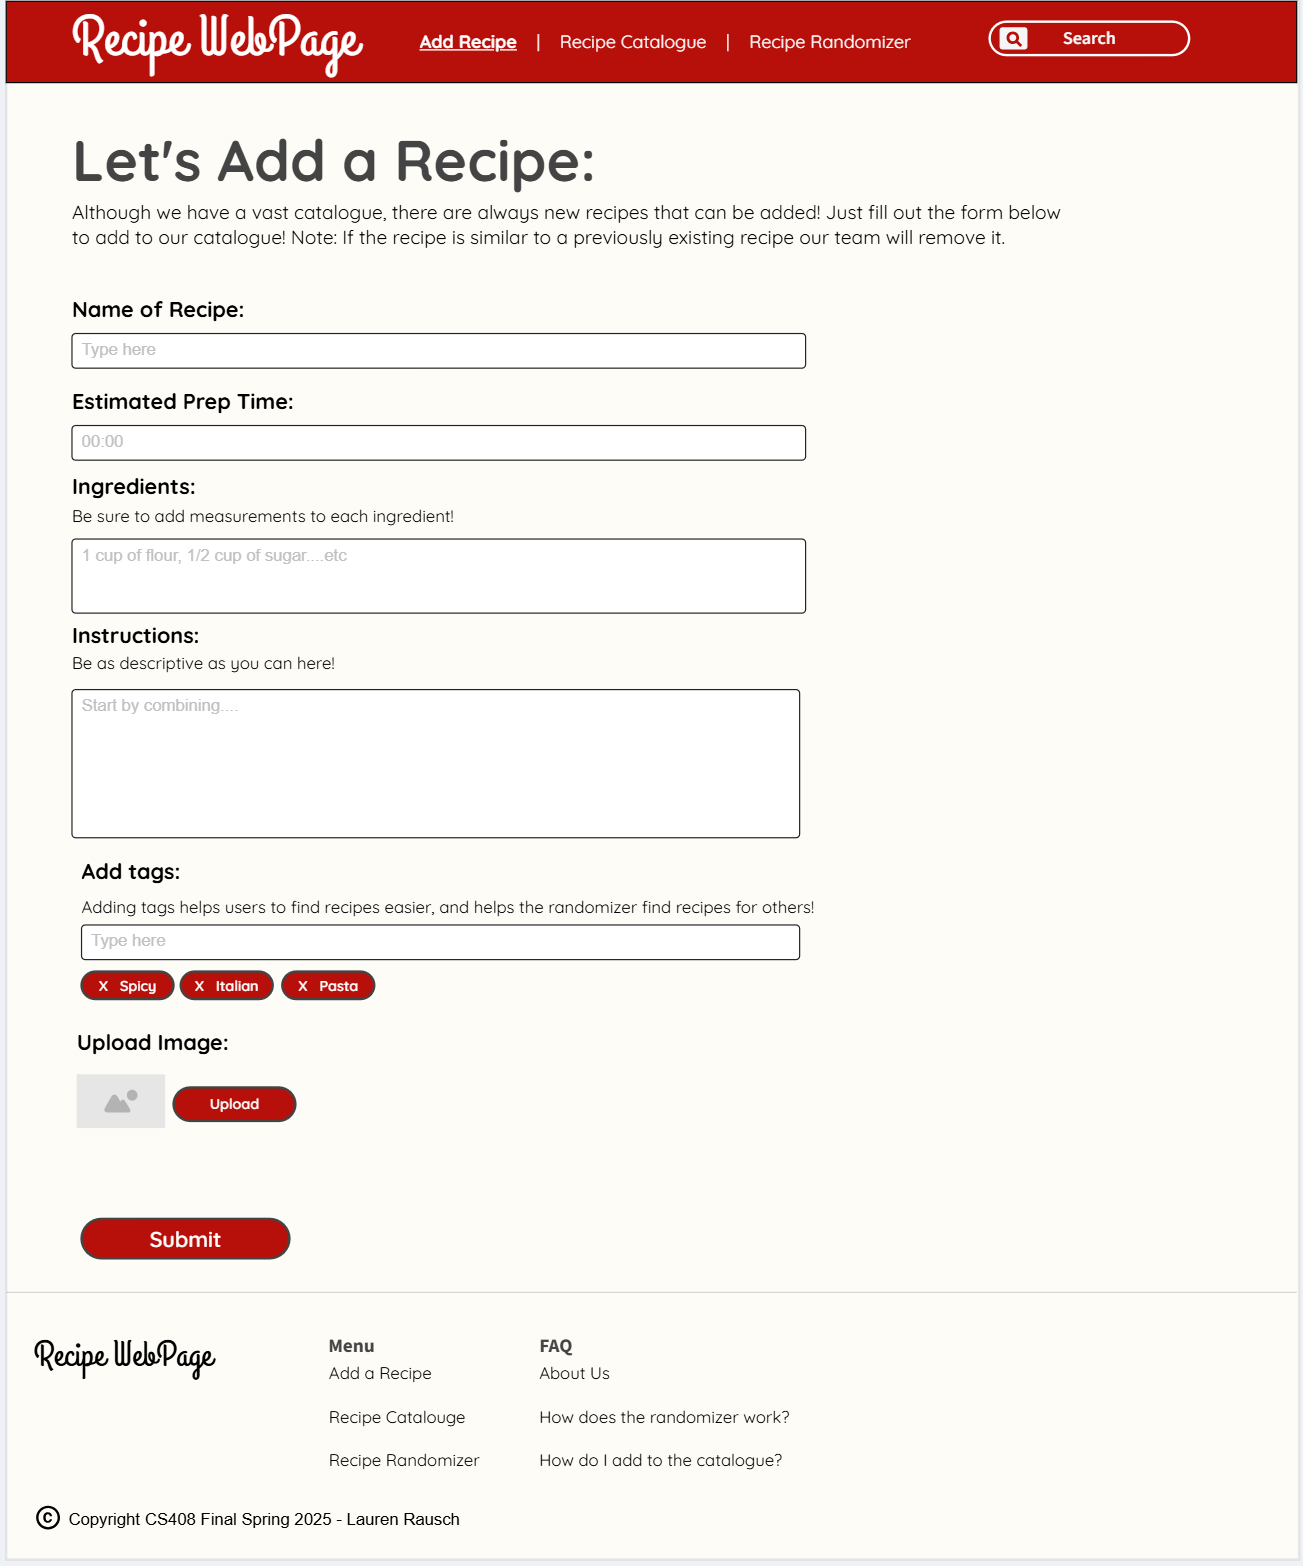
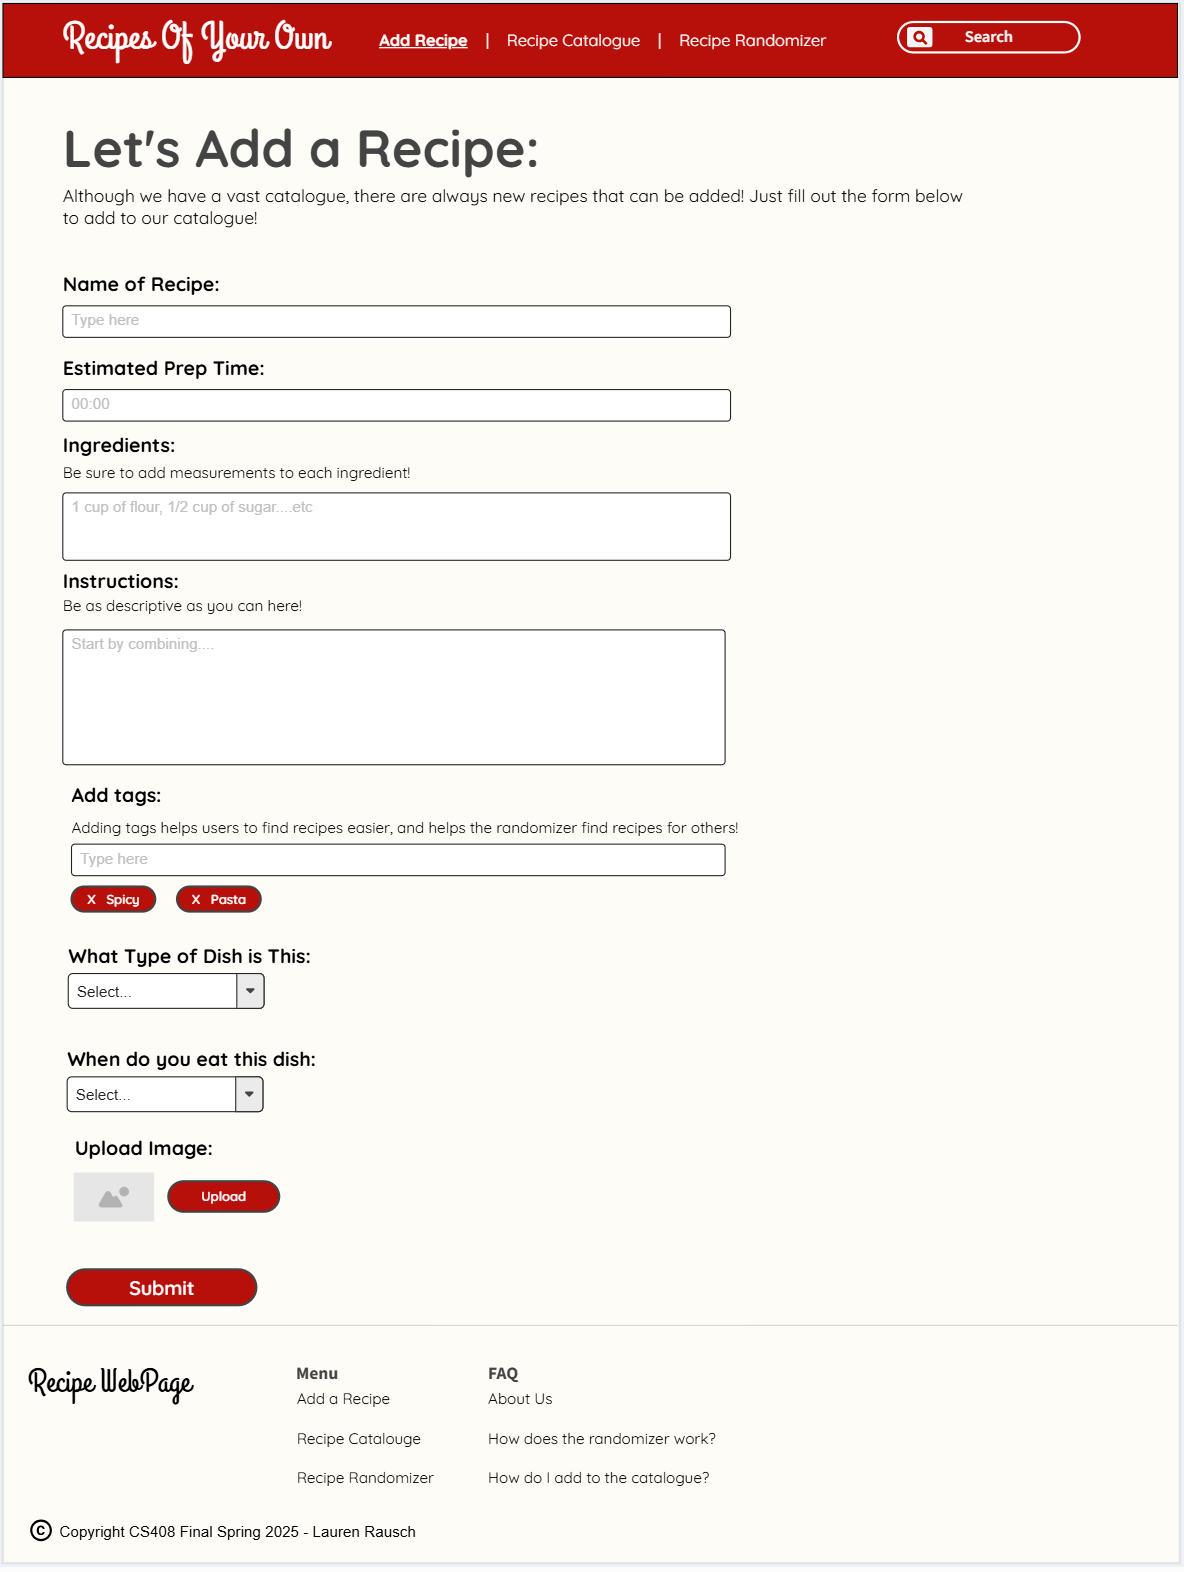
Updates to all images and readme

diff --git a/README.md b/README.md
@@ -2,16 +2,16 @@
 
 ## Project Specifications
 
-This project concept was actually incredibly difficult to decide because at first I thought, well everything that I could think of has already been done. I ultimately ended up deciding to make a recipe webpage/catalogue. This page will have a large amount of available recipes that users will be able to search through based on guidelines. This idea originally started with being able to get a random recipe recommended to a user, then evolved into recommending recipes based on some user inputs, like sorting by specific tags. Then I decided what if I make a website that has a catalogue of recipes that users can scroll through but also recommend recipes based on simple guidelines, or just get random recipes in general. 
+This project concept was actually incredibly difficult to decide because at first I thought, well everything that I could think of has already been done. I ultimately ended up deciding to make a personal cookbook/catalogue. This page will  will be able to hold and search through recipes you enter based on specific guidelines. This idea originally started with being able to get a random recipe recommended to a user, then evolved into recommending recipes based on some user inputs, like sorting by specific tags. Then I decided what if I make a website that has a catalogue of recipes that users can scroll through but also recommend recipes based on simple tags, or just get random recipes in general from their inputs.
 
 The randomization of the recipes will follow a few different guides, the users can put in ingredients they have available and get a recipe. The users can put in a certain style of cuisine they desire and get randomized recipes based on the tags they select. For example, they could select Italian and spicy and get a recipe that has those tag markers. The user can also select to not put any tags and just get a randomly generated recipe. 
 
-The rest of the webpage will have a catalogue that the users can browse through that can be listened to from A-Z, or there will be another page where the recipes are broken down by types of meals. For example, breakfast, appetizers, lunch, dinner, and potentially sub categories of the style of food. Things like, Mexican, Italian, Korean, etc. There will also be a section where users can add recipes to the webpage. there will be a fill in template that the users can fill out to be able to upload to the recipe catalogue, and add the appropriate tags in order for it to be sorted accurately. This makes it more community based and makes a way for new recipes to be discovered.
+The rest of the webpage will have the full catalogue that the users can browse through that can be listened to from A-Z and by time of day. For example, breakfast, appetizers, lunch, dinner.. There will also be a section where users can add recipes to the webpage. there will be a fill in template that the users can fill out to be able to upload to the recipe catalogue, and add the appropriate tags in order for it to be sorted accurately. This makes it easier for the users to find their recipes when sorting or randomizing through them.
  
 ### A few other questions to address: 
 
 #### What is the general theme? 
-The general theme is to be a community cookbook in a way. A place where people who are picky or have a hard time deciding what to make or have a hard time picking meals can go and get an easy answer.
+The general theme is to be a cookbook in a way. A place where people who are picky or have a hard time deciding what to make or have a hard time picking meals can go and get an easy answer.
 
 #### What is it going to do? 
 Help users discover new recipes or help users to be able to find meals that are fitting their needs. Opening up people to be able try new foods and expand their culinary knowledge.
@@ -23,22 +23,19 @@ This is more of a website made for adults. The age range from 20-60. Probably fo
 The type of data that will be managed will be input data created by users. It will manage images (connected to the recipes), and input data that gives the explanation for the recipe. 
 
 #### Stretch Goals?
-I think once I meet most if not all of the goals I have suggested above, I would potentially like to add a comment system or maybe even a rating system. It would make it so users can vote on recipes and recommend ones they like to   other users. As well as leave comments on recipes that they liked and maybe add extra tips for other people trying the recipe. Maybe as a very long long term goal, maybe add some functionality to be able to make it so users can have profiles and be able to log in and save recipes to their profiles. I unfortunately don’t have much experience with that type of thing so that would be something to add maybe outside of this class I could add.
-
-
+I think once I meet most if not all of the goals I have suggested above, I would potentially like to add a comment system or maybe even a rating system and expand it to a multi user base. It would make it so users can vote on recipes and recommend ones they like to other users. As well as leave comments on recipes that they liked and maybe add extra tips for other people trying the recipe. Maybe as a very long long term goal, maybe add some functionality to be able to make it so users can have profiles and be able to log in and save recipes to their profiles. I unfortunately don’t have much experience with that type of thing so that would be something to add maybe outside of this class I could add.
 
 ## Project Wireframe
 
 ### Home Page
 ![wireframe1](framework.PNG)
 ![wireframe2](framework_2.PNG)
-![wireframe3](framework_3.PNG)
 
 ### Add A Recipe 
 ![wireframe3](add_a_recipe.PNG)
 
 ### Recipe Catalogue
-![wireframe3](Recipe_Catalogue.PNG)
+![wireframe3](catalogue.PNG)
 
 ### Recipe Randomizer
 ![wireframe3](randomizer.PNG)
